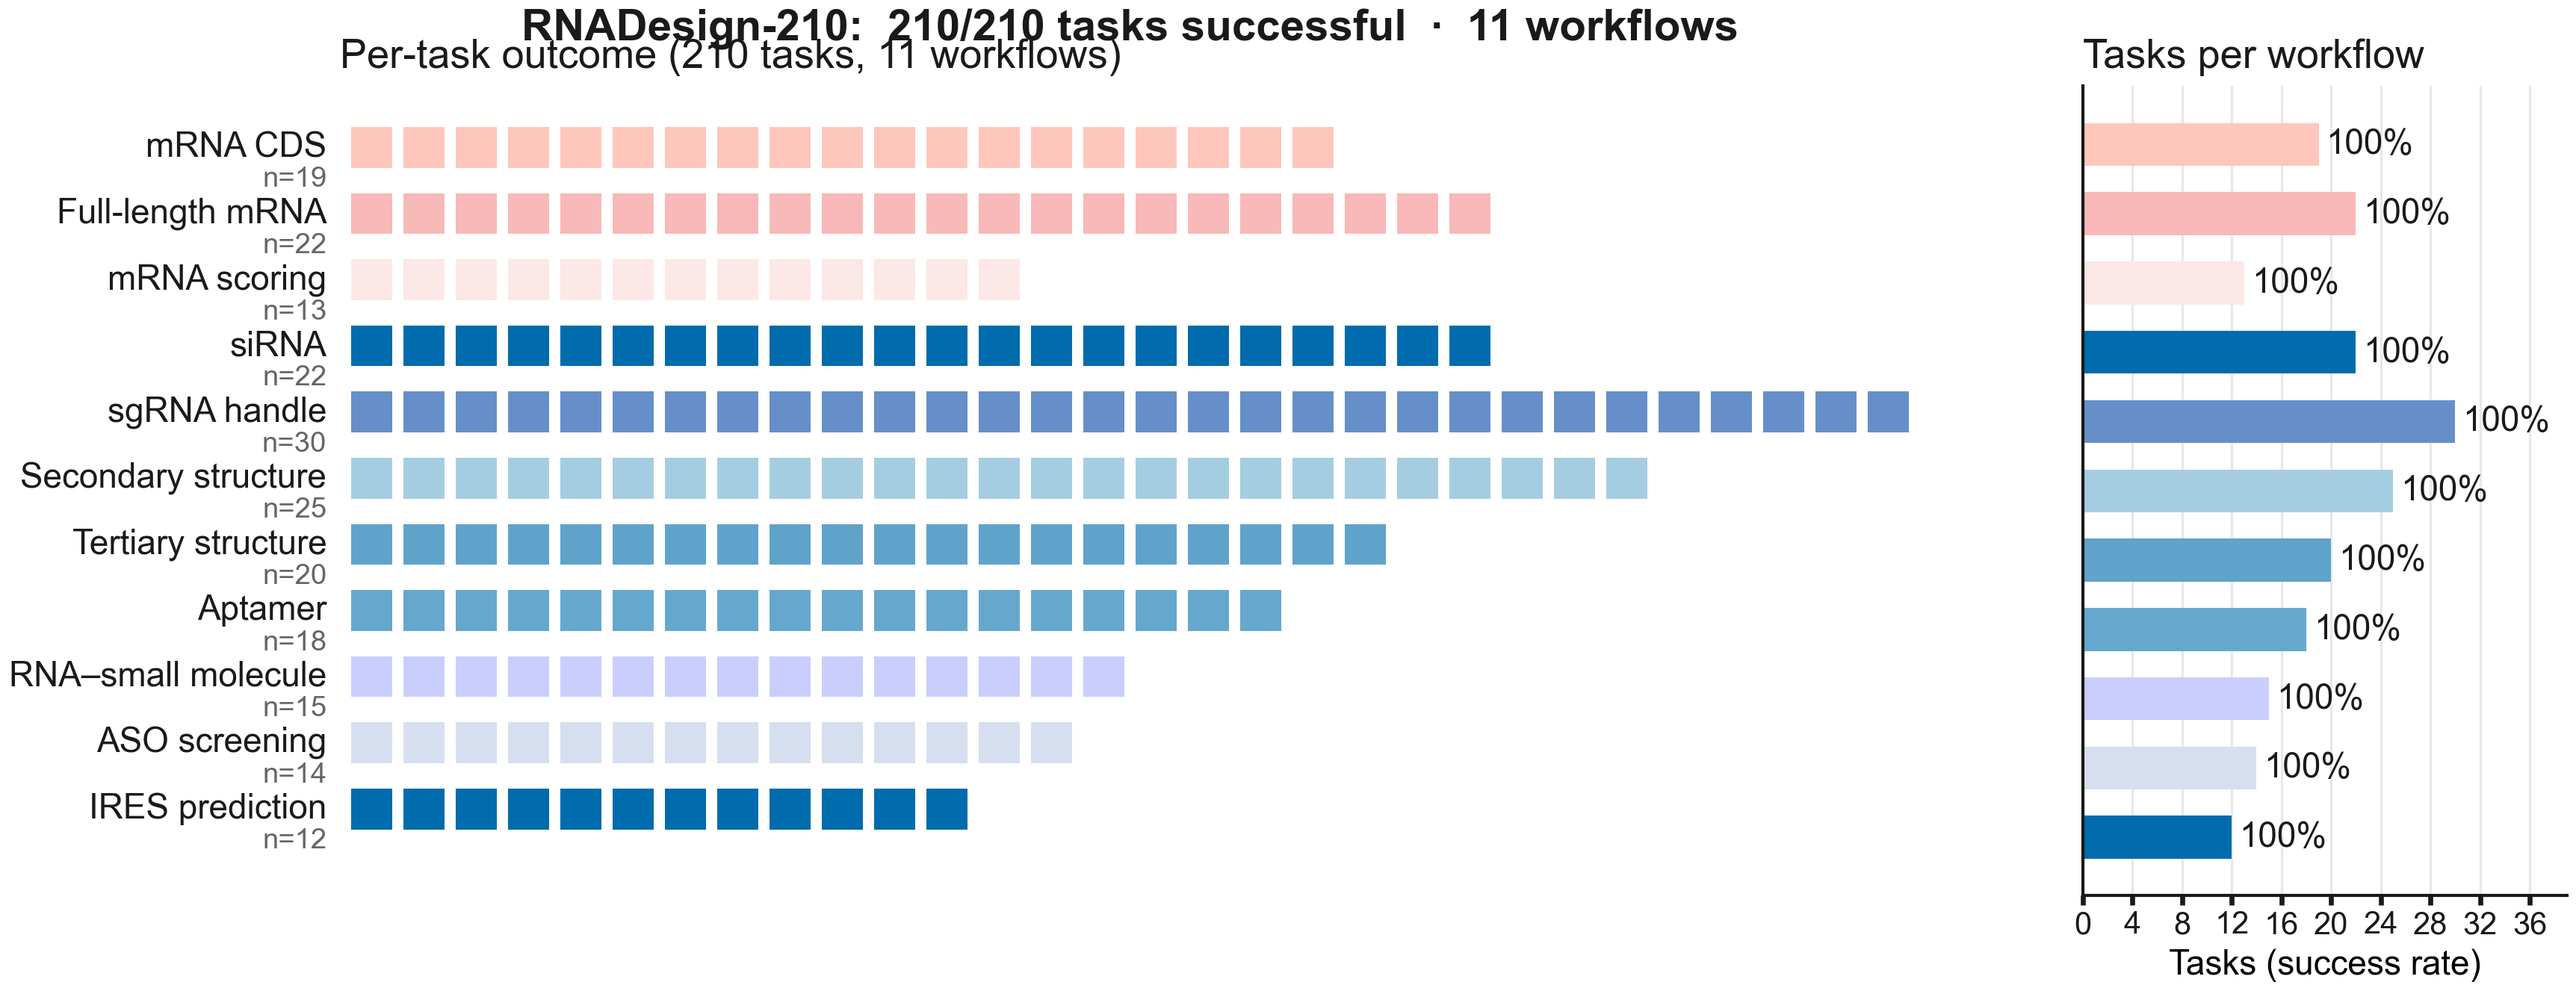
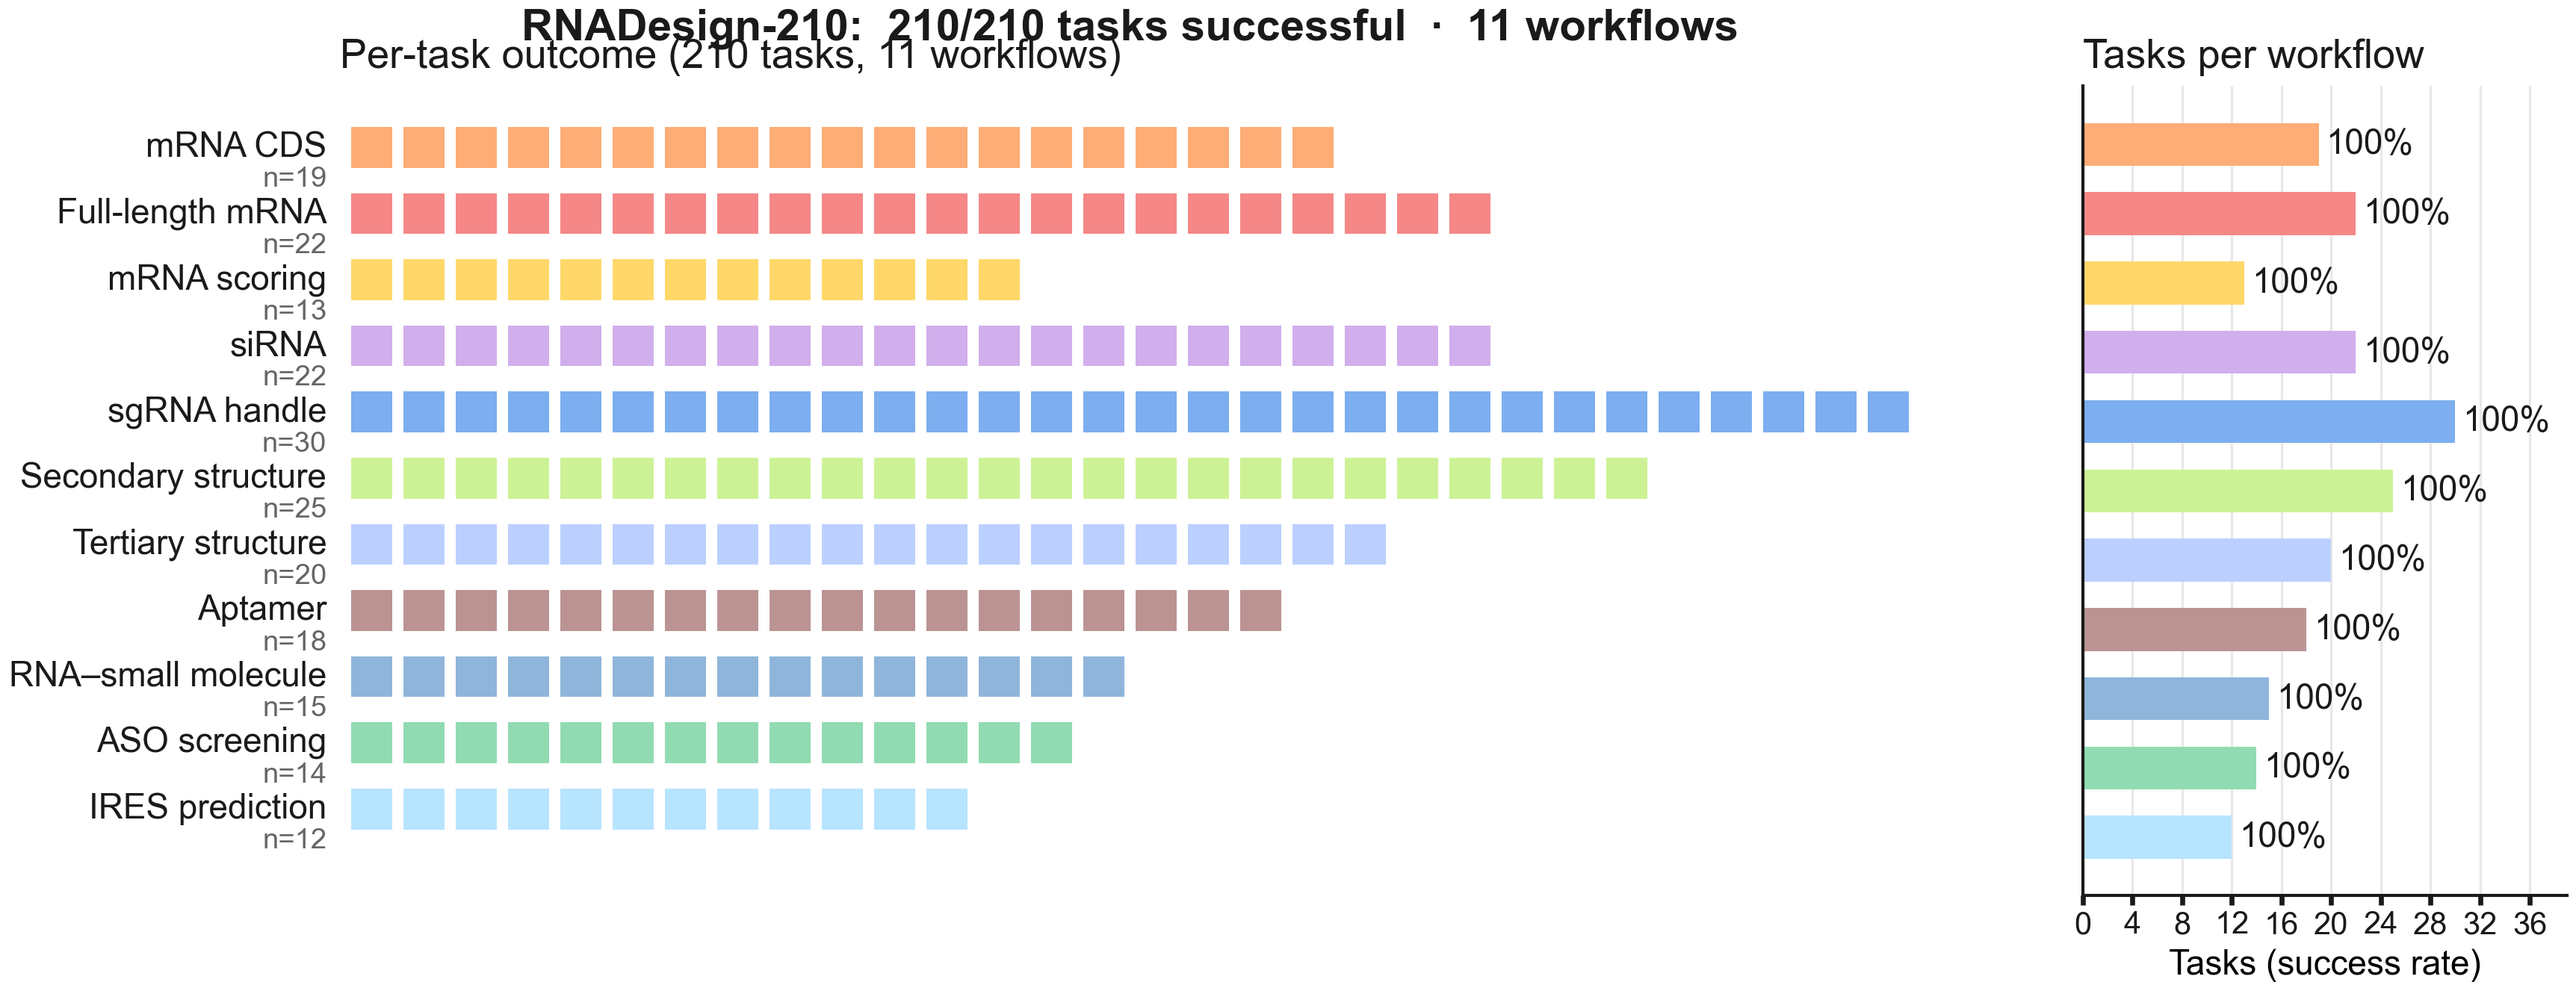
style(palette): unified figure palette rev 2 — 12-colour scheme, Fig 2a re-rendered
Replaces the initial 10-colour set with the user's 12-colour palette
(#808080 #BB9393 #F58787 #FEAD76 #FFD869 #CDF296 #7CAEF0 #8FB5DA #B7E4FF
#BBD0FF #D1AEEC #91DBB2). Each of the 11 workflows now owns one distinct
colour (adjacent carpet rows pairwise separable; grey reserved for
neutral/failure semantics, never workflow identity). Fig 2a re-rendered and
pixel-verified row-by-row against the mapping; DECISIONS (z) / CHANGELOG /
AGENTS palette wording updated.

Changed region(s): [[0.1241, 0.1236, 0.7448, 0.8342], [0.8068, 0.1236, 0.962, 0.8651]]

diff --git a/rna_agent_system/experiments/plots/palette.py b/rna_agent_system/experiments/plots/palette.py
@@ -1,40 +1,46 @@
-"""Unified experiment-figure palette (user-specified, 2026-08-25 reset).
+"""Unified experiment-figure palette (user-specified, 2026-08-25 reset; rev 2).
 
 Every experiment figure draws its colours exclusively from PALETTE below.
-Eleven workflows map onto the ten colours; the lightest blue is reused for the
-one workflow whose carpet row is spatially non-adjacent to its first use.
+Twelve colours for eleven workflows — each workflow owns one distinct colour;
+grey is reserved for neutral semantics (failed tiles, null/baseline
+categories, annotations) and never identifies a workflow.
 """
 from __future__ import annotations
 
-# The mandated palette (10 colours as supplied; used verbatim).
+# The mandated palette (12 colours as supplied; used verbatim).
 PALETTE: list[str] = [
-    "#FCE8E6",  # pale rose
-    "#FFC6BC",  # light coral
-    "#F8B9B8",  # rose
-    "#D6DFEF",  # pale blue
-    "#A5CDE2",  # light blue
-    "#5FA3CB",  # blue
-    "#668FCA",  # royal blue
-    "#C9CEFE",  # periwinkle
-    "#66A8CD",  # steel blue
-    "#006BAD",  # deep blue
+    "#808080",  # grey (reserved: neutral / failure / baseline)
+    "#BB9393",  # dusty rose
+    "#F58787",  # coral
+    "#FEAD76",  # orange
+    "#FFD869",  # yellow
+    "#CDF296",  # light green
+    "#7CAEF0",  # blue
+    "#8FB5DA",  # light blue
+    "#B7E4FF",  # pale blue
+    "#BBD0FF",  # periwinkle
+    "#D1AEEC",  # lilac
+    "#91DBB2",  # mint
 ]
 
 PALETTE_BY_NAME: dict[str, str] = {
-    "pale_rose": "#FCE8E6",
-    "light_coral": "#FFC6BC",
-    "rose": "#F8B9B8",
-    "pale_blue": "#D6DFEF",
-    "light_blue": "#A5CDE2",
-    "blue": "#5FA3CB",
-    "royal_blue": "#668FCA",
-    "periwinkle": "#C9CEFE",
-    "steel_blue": "#66A8CD",
-    "deep_blue": "#006BAD",
+    "grey": "#808080",
+    "dusty_rose": "#BB9393",
+    "coral": "#F58787",
+    "orange": "#FEAD76",
+    "yellow": "#FFD869",
+    "light_green": "#CDF296",
+    "blue": "#7CAEF0",
+    "light_blue": "#8FB5DA",
+    "pale_blue": "#B7E4FF",
+    "periwinkle": "#BBD0FF",
+    "lilac": "#D1AEEC",
+    "mint": "#91DBB2",
 }
 
 # Semantic accents reused across figures (fixed slots of the palette).
-NEUTRAL_GRID = "#D9D9D9"
+NEUTRAL = "#808080"          # neutral / failure / null-baseline category
+NEUTRAL_GRID = "#D9D9D9"     # gridlines / tile borders (non-data grey)
 TEXT = "#1A1A1A"
 
 # Canonical workflow order and display names.
@@ -66,19 +72,18 @@ WORKFLOW_LABELS: dict[str, str] = {
     "ires_prediction": "IRES prediction",
 }
 
-# Workflow → palette colour. Warm (rose/coral) shades mark the sequence-design
-# workflows, blues mark structure/prediction/screening workflows; pale_blue is
-# reused once for a spatially separated row.
+# Workflow → palette colour (one distinct colour per workflow; adjacent
+# carpet rows kept visually separable; grey excluded from workflow identity).
 WORKFLOW_COLORS: dict[str, str] = {
-    "mrna_cds_design": "#FFC6BC",
-    "full_length_mrna_design": "#F8B9B8",
-    "mrna_sequence_scoring": "#FCE8E6",
-    "sirna_design": "#006BAD",
-    "sgrna_design": "#668FCA",
-    "rna_secondary_structure_design": "#A5CDE2",
-    "rna_tertiary_structure_design": "#5FA3CB",
-    "rna_aptamer_design": "#66A8CD",
-    "rna_small_molecule_interaction": "#C9CEFE",
-    "aso_target_screening": "#D6DFEF",
-    "ires_prediction": "#006BAD",
+    "mrna_cds_design": "#FEAD76",                 # orange
+    "full_length_mrna_design": "#F58787",         # coral
+    "mrna_sequence_scoring": "#FFD869",           # yellow
+    "sirna_design": "#D1AEEC",                    # lilac
+    "sgrna_design": "#7CAEF0",                    # blue
+    "rna_secondary_structure_design": "#CDF296",  # light green
+    "rna_tertiary_structure_design": "#BBD0FF",   # periwinkle
+    "rna_aptamer_design": "#BB9393",              # dusty rose
+    "rna_small_molecule_interaction": "#8FB5DA",  # light blue
+    "aso_target_screening": "#91DBB2",            # mint
+    "ires_prediction": "#B7E4FF",                 # pale blue
 }

diff --git a/AGENTS.md b/AGENTS.md
@@ -5,7 +5,7 @@
 
 ## What's New
 
-- **Experiment-programme reset + Exp 1 done** (2026-08-25, DECISIONS (z), user-directed): the architecture moved too much since the legacy campaigns — **all paper experiments re-run against the frozen gated platform** with newly written drivers/figures; legacy campaign code, plots and results deleted (retained: SelfModel evidence chain `e1_*_v2`/`e7_*`/`rnasmol_boundary_panel*`/`e16_e17_e18/` + `build_default_self_model.py`, `codon_tables/`, `tool_inventory.json`, `MODEL_API_USAGE.md`, audit trail). **RNADesign-210 audited and repaired on disk** (`experiments/audit_rnadesign210.py` / `fix_rnadesign210.py`; manifest recounts 208→210, category taxonomy → basic/edge/full, IRES fixtures rebuilt on real poliovirus/EMCV anchors with mode-0 thresholds inside the oracle's measured regime, expected tool chains regrounded from live traces; re-audit 0 issues / 0 warnings). **Exp 1 (Fig 2a) executed: 210/210 across the 11 workflows** (`experiments/exp1_rnadesign210.py`, advisory arm, records under `experiments/results/exp1_rnadesign210/`; 4-task enforce probe documents the gated-refusal signatures). **Unified figure palette locked** (`experiments/plots/palette.py`, the ten mandated colours — every experiment figure draws from it exclusively; Fig 2a at `experiments/plots/output/fig2a_coverage.{pdf,png}`). Experiment services are GPU-pinned to 0/1/2 by `experiments/exp1_bring_up_services.sh`.
+- **Experiment-programme reset + Exp 1 done** (2026-08-25, DECISIONS (z), user-directed): the architecture moved too much since the legacy campaigns — **all paper experiments re-run against the frozen gated platform** with newly written drivers/figures; legacy campaign code, plots and results deleted (retained: SelfModel evidence chain `e1_*_v2`/`e7_*`/`rnasmol_boundary_panel*`/`e16_e17_e18/` + `build_default_self_model.py`, `codon_tables/`, `tool_inventory.json`, `MODEL_API_USAGE.md`, audit trail). **RNADesign-210 audited and repaired on disk** (`experiments/audit_rnadesign210.py` / `fix_rnadesign210.py`; manifest recounts 208→210, category taxonomy → basic/edge/full, IRES fixtures rebuilt on real poliovirus/EMCV anchors with mode-0 thresholds inside the oracle's measured regime, expected tool chains regrounded from live traces; re-audit 0 issues / 0 warnings). **Exp 1 (Fig 2a) executed: 210/210 across the 11 workflows** (`experiments/exp1_rnadesign210.py`, advisory arm, records under `experiments/results/exp1_rnadesign210/`; 4-task enforce probe documents the gated-refusal signatures). **Unified figure palette locked** (`experiments/plots/palette.py`, the twelve mandated colours — every experiment figure draws from it exclusively; Fig 2a at `experiments/plots/output/fig2a_coverage.{pdf,png}`). Experiment services are GPU-pinned to 0/1/2 by `experiments/exp1_bring_up_services.sh`.
 - **Paper-preparation documentation pass** (2026-08-25, doc-only): external-baseline arms **E21 (bare-LLM)** and **E22 (same-tools ReAct)** registered in `docs/DECISIONS.md` Part 4 (planned, not yet run — see Standing facts); all six `docs/PAPER_DRAFT.md` figure legends re-lettered to `docs/FIGURE_PLAN_V5.md` (the single source of truth for panel lettering); the first Results subsection split into a system-design Overview (Fig. 1) + RNADesign-210 results (Fig. 2); Supplementary Table S1 / Note S2 registered in the figure plan. Same-day **figure-type diversification pass** (doc-only): panel chart types across Figs. 1–6 diversified after a structured survey of eight agentic-science references — registered in `docs/FIGURE_PLAN_V5.md` and named in the `docs/PAPER_DRAFT.md` legends.
 - **Repo-wide simplification pass — code is the source of truth, old artifacts purged** (2026-08-22, user-directed; `docs/CHANGELOG.md` 2026-08-22 (i) + DECISIONS (y)): (1) fixed a real leak — every test-suite run wrote scratch files to the real `workspace/` root (141k files / 1.3 GB accumulated); `tests/conftest.py` now redirects all default workspace bases to a per-run `workspace/_tests` scratch (subprocess-safe via the new `RNADA_WORKSPACE_BASE` env override honoured by `WorkspaceManager`), verified zero new root files across a full suite run. (2) Demo tool `workflow_demo_echo` removed — **41 registered tools, all production** (`python -m agent_core.tool_inventory`). (3) Duplicated QualityAgent retry tests consolidated into one parametrized module; duplicated `Args/Returns` docstrings stripped from 39 `tools.py` wrappers (the Input-model `Field` descriptions are the single source). (4) Historical outputs purged: superseded figure generations (`plots/{paper,paper_v4,fig*_panels}`), archived experiment rounds, leaked workspace scratch and stale service-run intermediates — **repository 4.3 GB → 2.0 GB** (remaining bulk: 1.2 GB of required reference genomes + the retained audit trail); the CapGate audit trail (`workspace/audit/`, `workspace/sessions/`) and every `*_fresh_audit_*` evidence directory retained. Suite **635 passed, 1 skipped**; PA_006–PA_019 rerun green.
 - **Full-platform E2E fresh-data audit** (2026-08-22, DECISIONS (x); evidence `workspace/e2e_fresh_audit_2026-08-22/`): whole stack — all three Layer-6 entry points driving all 11 workflows on live services + live CapGate + live DeepSeek review on entirely fresh fetched data; 56 checks / 0 failures post-fix. Three defects fixed: opaque `sgrna_design` missing-seed failure (now a clear `ValueError`), `stream_form` raising on hard failure (now a final `runner` event), ViennaRNA inverse-fold accepting pseudoknot brackets (SIGSEGV behind a 503; now rejected up-front — normalise Rfam `SS_cons` upstream).

diff --git a/rna_agent_system/docs/CHANGELOG.md b/rna_agent_system/docs/CHANGELOG.md
@@ -44,8 +44,10 @@ gated-platform boundary as data: IRES tasks refuse with an explicit
 `GatedActionError`, small-molecule tasks fail cleanly with both oracles gated
 (`enforce_probe.jsonl`). **Fig 2a** rendered (per-task tile carpet + horizontal
 bar summary) from the new **unified palette**
-(`experiments/plots/palette.py`, the ten mandated colours; every experiment
-figure draws from it exclusively).
+(`experiments/plots/palette.py`, the twelve mandated colours; every experiment
+figure draws from it exclusively). Palette rev 2 (same day): the initial
+10-colour set was replaced by the user's 12-colour scheme — each of the 11
+workflows now owns a distinct colour, grey reserved for neutral semantics.
 
 ## 2026-08-25 — Paper figure-lettering unification (doc-only)
 

diff --git a/rna_agent_system/docs/DECISIONS.md b/rna_agent_system/docs/DECISIONS.md
@@ -312,8 +312,9 @@ a 4-task enforce probe documents the refusal signatures (IRESfinder
 (`experiments/results/exp1_rnadesign210/summary.json`; driver
 `experiments/exp1_rnadesign210.py`, services GPU-pinned 0/1/2 via
 `experiments/exp1_bring_up_services.sh`). **Unified figure palette** locked to
-the ten user-specified colours (`experiments/plots/palette.py`); every
-experiment figure draws from it exclusively.
+the twelve user-specified colours (`experiments/plots/palette.py`; grey is
+reserved for neutral/failure semantics, the eleven workflows each own one
+distinct colour); every experiment figure draws from it exclusively.
 
 ---
 
